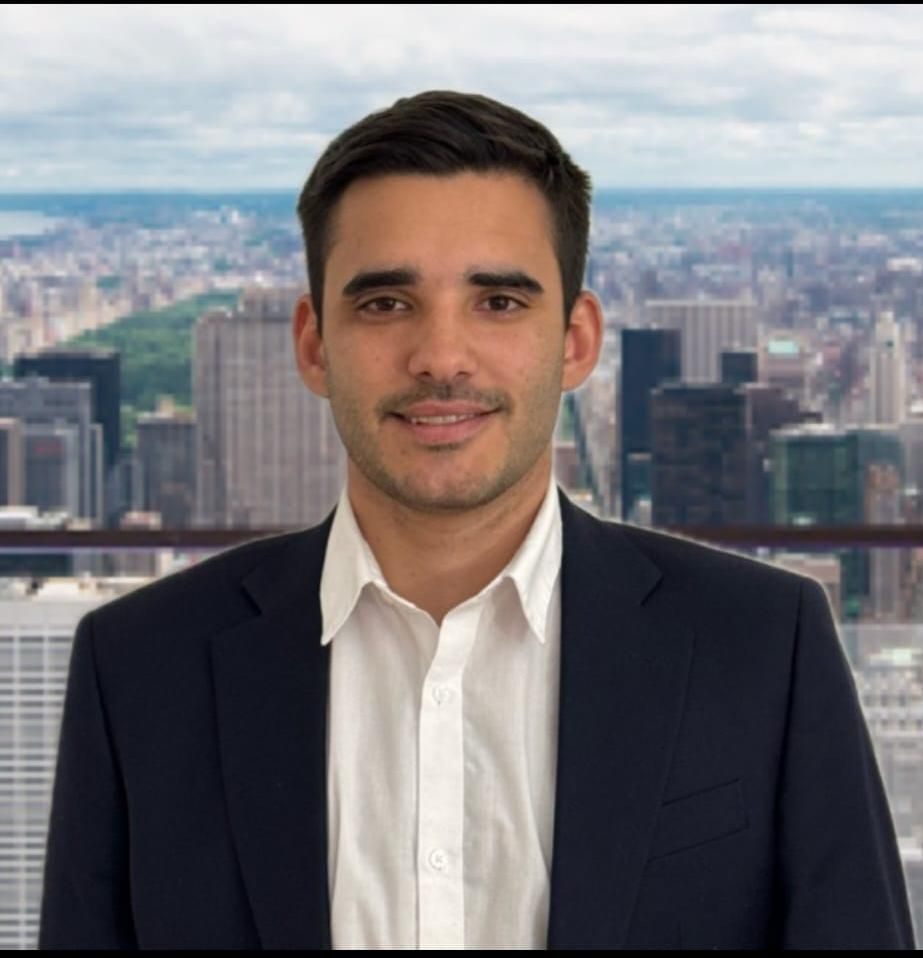
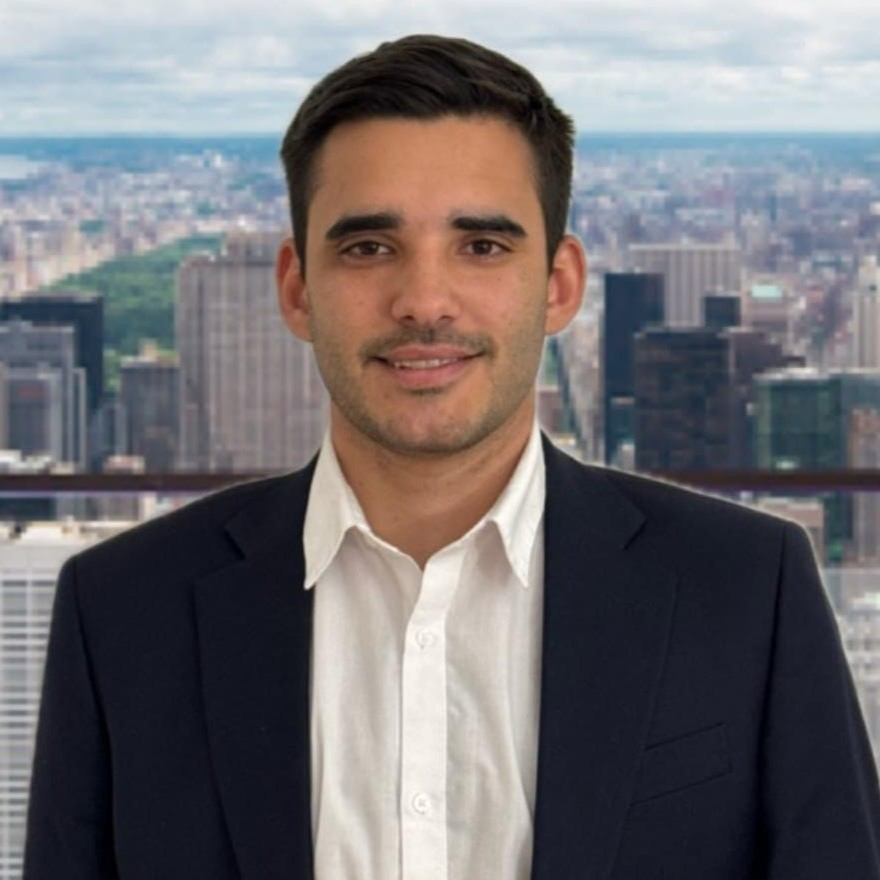
cambios en el wording de la pagina

diff --git a/index.html b/index.html
@@ -187,8 +187,8 @@
                     <div class="p-4 bg-white shadow-sm rounded-4 h-100">
                         <h3 class="mb-3" data-translate="vision">Visión</h3>
                         <p class="text-secondary" data-translate="descriptionVision">
-                            Convertirse en la principal referencia para la adquisición de productos vitales en todas las
-                            regiones del mundo.
+                            Buscamos ser un actor clave en la adquisición de productos vitales en la región
+                            y en el mundo, a partir de la calidad de nuestros productos y visión estratégica.
                         </p>
                     </div>
                 </div>
@@ -211,7 +211,7 @@
                         <div class="d-flex flex-column col-6 col-sm-4 col-md-2 mb-4">
                             <img src="./assets/img/equipo/FVF.jpg" class="img-fluid rounded-circle mb-2"
                                 alt="Facundo Vasquez Ferro">
-                            <h6 class="name">Facundo Vasquez Ferro</h6>
+                            <h6 class="name">Facundo Vásquez Ferro</h6>
                             <p class="role">General Manager</p>
                         </div>
 
@@ -227,7 +227,7 @@
                         <div class=" d-flex flex-column col-6 col-sm-4 col-md-2 mb-4">
                             <img src="./assets/img/equipo/ARF-v2.jpg" class="img-fluid rounded-circle mb-2"
                                 alt="Agustin Rodriguez Fodere">
-                            <h6 class="name">Agustin Rodriguez Fodere</h6>
+                            <h6 class="name">Agustín Rodríguez Fodéré</h6>
                             <p class="role">Controller</p>
                         </div>
 
@@ -260,7 +260,7 @@
                         <div class="d-flex flex-column col-6 col-sm-4 col-md-2 mb-4">
                             <img src="./assets/img/equipo/FVF.jpg" class="img-fluid rounded-circle mb-2"
                                 alt="Juan Sebastian Correa">
-                            <h6 class="name">Juan Sebastian Correa</h6>
+                            <h6 class="name">Juan Sebastián Correa</h6>
                             <p class="role">Accounting</p>
                         </div>
                     </div>
@@ -297,8 +297,9 @@
                         <div class="service-card">
                             <i class="bi bi-gear-wide-connected fs-1 text-white mb-3"></i>
                             <h5 class="fw-bold text-uppercase text-white" data-translate="metals">Metales</h5>
-                            <p class="text-light mb-0" data-translate="descriptionMetals">Contamos con una amplia oferta
-                                de productos para abastecer los diferentes segmentos del mercado.</p>
+                            <p class="text-light mb-0" data-translate="descriptionMetals">Amplia oferta de metales no 
+                                ferrosos para abastecer los diferentes segmentos
+                                del mercado.</p>
                             <div>
                                 <span class="badge bg-light text-primary border me-1 mb-1"
                                     data-translate="aluminio">Aluminio</span>
@@ -320,7 +321,7 @@
                         <div class="service-card">
                             <i class="bi bi-gear-wide-connected fs-1 text-white mb-3"></i>
                             <h5 class="fw-bold text-uppercase text-white">Oil & Gas</h5>
-                            <p class="text-light mb-0" data-translate="descriptionOil">Ofrecemos productos refinados y
+                            <p class="text-light mb-0" data-translate="descriptionOil">Productos refinados y
                                 servicios logísticos.</p>
                         </div>
                     </div>
@@ -341,7 +342,7 @@
                             <i class="bi bi-recycle fs-1 text-white mb-3"></i>
                             <h5 class="fw-bold text-uppercase text-white" data-translate="reciclado">Reciclado</h5>
                             <p class="text-light mb-0" data-translate="descriptionReciclado">
-                                Ofrecemos productos reciclados, principalmente en el mercado de aluminio.
+                                Productos reciclados, principalmente en el mercado de aluminio.
                             </p>
                         </div>
                     </div>
@@ -375,9 +376,9 @@
                             <div class="service-card">
                                 <i class="bi bi-truck-flatbed fs-1 text-white mb-3"></i>
                                 <h5 class="fw-bold text-uppercase text-white" data-translate="logistica">Logística</h5>
-                                <p class="text-light mb-0" data-translate="descriptionLogistica"> Ofrecemos servicios
-                                    logísticos tanto por barco como por
-                                    camión en los diferentes países del mundo.</p>
+                                <p class="text-light mb-0" data-translate="descriptionLogistica"> 
+                                    Ofrecemos servicios logísticos intermodales en diferentes países del mundo.
+                                </p>
                             </div>
                         </div>
 
@@ -385,10 +386,10 @@
                         <div class="col-md-4">
                             <div class="service-card">
                                 <i class="bi bi-bank fs-1 text-white mb-3"></i>
-                                <h5 class="fw-bold text-uppercase text-white">Warehousing</h5>
-                                <p class="text-light mb-0" data-translate="descriptionWarehousing">Trabajamos con
-                                    depósitos en diferentes zonas del mundo para
-                                    optimizar nuestras entregas.</p>
+                                <h5 class="fw-bold text-uppercase text-white" data-translate="almacenamiento">Almacenamiento</h5>
+                                <p class="text-light mb-0" data-translate="descriptionWarehousing">
+                                    Trabajamos con depósitos globales para optimizar nuestras entregas.
+                                </p>
                             </div>
                         </div>
                     </div>
@@ -405,9 +406,9 @@
 
                     <div class="col-md-6">
                         <div class="mt-4">
-                            <h3 data-translate="titleContact">Envíenos su consulta</h3>
+                            <h3 data-translate="titleContact">Envíanos tu consulta</h3>
                             <p data-translate="descriptionContact">
-                                Si desea más información, póngase en contacto con nosotros.
+                                Contáctanos para más información.
                             </p>
 
                             <div class="social-links">
@@ -415,8 +416,6 @@
                                         class="bi bi-globe2"></i></a>
                                 <a href="https://www.linkedin.com/company/codes-s.a./" class="linkedin" target="new"><i
                                         class="bx bxl-linkedin"></i></a>
-                                <a href="https://www.instagram.com/codes_argentina/" class="linkedin" target="new"><i
-                                        class="bi bi-instagram"></i></a>
                                 <a href="#" class="linkedin" target="new"><i class="bi bi-envelope"></i></a>
                             </div>
                         </div>
@@ -487,8 +486,6 @@
                     <a href="https://codes.com.ar/" target="new" class="linkedin"><i class="bi bi-globe2"></i></a>
                     <a href="https://www.linkedin.com/company/codes-s.a./" class="linkedin" target="new">
                         <i class="bx bxl-linkedin"></i></a>
-                    <a href="https://www.instagram.com/codes_argentina/" class="linkedin" target="new">
-                        <i class="bi bi-instagram"></i></a>
                     <a href="#" class="linkedin" target="new"><i class="bi bi-envelope"></i></a>
                 </div>
 

diff --git a/assets/js/lang.js b/assets/js/lang.js
@@ -17,36 +17,37 @@ const translations = {
         suministro de materias primas. Nos destacamos por el profesionalismo de nuestros equipos y el conocimiento de 
         los mercados donde operamos.`,
         vision: "Visión",
-        descriptionVision: `Convertirse en la principal referencia para la adquisición de productos vitales en todas las
-        regiones del mundo.`,
+        descriptionVision: `Buscamos ser un actor clave en la adquisición de productos vitales en la región
+        y en el mundo, a partir de la calidad de nuestros productos y visión estratégica.`,
 
         descriptionWhatWeDo: "Ofrecemos commodities con un servicio integral en todo el mundo.",
 
         products: "Nuestros Productos",
         descriptionProducts: "Nuestro portafolio incluye soluciones actualmente disponibles y líneas en desarrollo.",
         metals: "Metales",
-        descriptionMetals: "Contamos con una amplia oferta de productos para abastecer los diferentes segmentos del mercado.",
+        descriptionMetals: "Amplia oferta de metales no ferrosos para abastecer los diferentes segmentos del mercado.",
         aluminio: "Aluminio",
         cobre: "Cobre",
         silicio: "Silicio",
         magnesio: "Magnesio",
         zinc: "Zinc",
 
-        descritionOil: "Ofrecemos productos refinados y servicios logísticos.",
+        descritionOil: "Productos refinados y servicios logísticos.",
         renovables: "Renovables",
         descriptionRenovables: "Comercialización de diferentes energías renovables.",
         reciclado: "Reciclado",
-        descriptionReciclado: "Ofrecemos productos reciclados, principalmente en el mercado de aluminio.",
+        descriptionReciclado: "Productos reciclados, principalmente en el mercado de aluminio.",
 
         services: "Nuestros Servicios",
         financiacion: "Financiación",
         descriptionFinanciacion: "Buscamos ofrecer soluciones financieras para nuestros clientes.",
         logistica: "Logística",
-        descriptionLogistica: "Ofrecemos servicios logísticos tanto por barco como por camión en los diferentes países del mundo.",
-        descriptionWarehousing: "Trabajamos con depósitos en diferentes zonas del mundo para optimizar nuestras entregas.",
+        descriptionLogistica: "Ofrecemos servicios logísticos intermodales en diferentes países del mundo.",
+        almacenamiento: "Almacenamiento",
+        descriptionWarehousing: "Trabajamos con depósitos globales para optimizar nuestras entregas.",
 
-        titleContact: "Envíenos su consulta",
-        descriptionContact: "Si desea más información, póngase en contacto con nosotro.",
+        titleContact: "Envíanos tu consulta",
+        descriptionContact: "Contáctanos para más información.",
 
         labelName: "Nombre (*)",
         labelCompany: "Empresa (*)",
@@ -60,49 +61,52 @@ const translations = {
         navItem3: "What we do",
         navItem4: "Contact",
 
-        description: `From Electa Trading, we supply customers around the world with aluminum and other commodities
-        efficiently and reliably. As a company controlled by Aluar Aluminio Argentino, since 2022 we provide
-        logistics services, offer financing solutions and risk management so that our customers can operate
-        with predictability, agility and support.`,
+        description: `At Electa Trading, we efficiently and reliably supply customers worldwide with
+        aluminum and other commodities. As a company controlled by Aluar Aluminio
+        Argentino, we provide logistics services, financing, and risk management
+        solutions since 2022 to ensure our clients operate with predictability, agility, and
+        support.`,
         location: "Location",
-        team: "Team",
+        team: "Our team",
         mision: "Mission",
-        descriptionMision: `We provide comprehensive solutions to our customers, adding value to the supply
-        chain of raw materials. We stand out for the professionalism of our teams and the knowledge of the
-        markets where we operate.`,
+        descriptionMision: `We provide comprehensive solutions to our clients, adding value to the raw
+        materials supply chain. Our approach is driven by professional teams with a
+        strong understanding of the markets where we operate.`,
         vision: "Vision",
-        descriptionVision: `Become the main reference for vital product procurement in all regions of the world.`,
-        descriptionWhatWeDo: "We offer commodities with an integral service all around the world.",
+        descriptionVision: `To become a key player in the acquisition of vital products in the region and the
+        world, grounded on our strategic vision and the quality of our products.`,
+        descriptionWhatWeDo: "We commercialize commodities with comprehensive service worldwide.",
 
         products: "Our Products",
-        descriptionProducts: "Our portfolio includes currently available solutions and lines in development.",
+        descriptionProducts: "Our portfolio features currently available solutions, as well as lines under development.",
         metals: "Metals",
-        descriptionMetals: "We have a wide range of products to supply different market segments.",
+        descriptionMetals: "A wide range of non-ferrous metals to supply different market segments.",
         aluminio: "Aluminum",
         cobre: "Copper",
         silicio: "Silicon",
         magnesio: "Magnesium",
         zinc: "Zinc",
 
-        descriptionOil: "We offer refined products and logistic services.",
+        descriptionOil: "Refined products and logistics services.",
         renovables: "Renowables",
-        descriptionRenovables: "Electa offers different types of renewables energies for consumption.",
+        descriptionRenovables: "Marketing of various renewable energy sources.",
         reciclado: "Recycling",
-        descriptionReciclado: "We offer recycled products, mainly in the aluminum market.",
+        descriptionReciclado: "Recycled products, primarily in the aluminum market.",
 
         services: "Our Services",
         financiacion: "Financing",
-        descriptionFinanciacion: "We do an exhaustive study to provide the best financial service to our customers.",
+        descriptionFinanciacion: "We offer financial solutions for our clients.",
         logistica: "Logistic",
-        descriptionLogistica: "Our goal is to meet our customer’s needs through logistic services by ship or truck all around the world.",
-        descriptionWarehousing: "We optimize our deliveries working with warehouses in different regions.",
+        descriptionLogistica: "We provide intermodal logistics services in various countries worldwide.",
+        almacenamiento: "Warehousing",
+        descriptionWarehousing: "We work with warehouses globally to optimize our deliveries.",
 
         titleContact: "Send us your inquiry",
-        descriptionContact: "If you would like more information, please contact us.",
+        descriptionContact: "Contact us for more information.",
 
         labelName: "Name (*)",
         labelCompany: "Company (*)",
-        labelTelephone: "Telephone (*)",
+        labelTelephone: "Phone (*)",
         labelMessage: "Message (*)",
         labelSend: "Send"
     }
